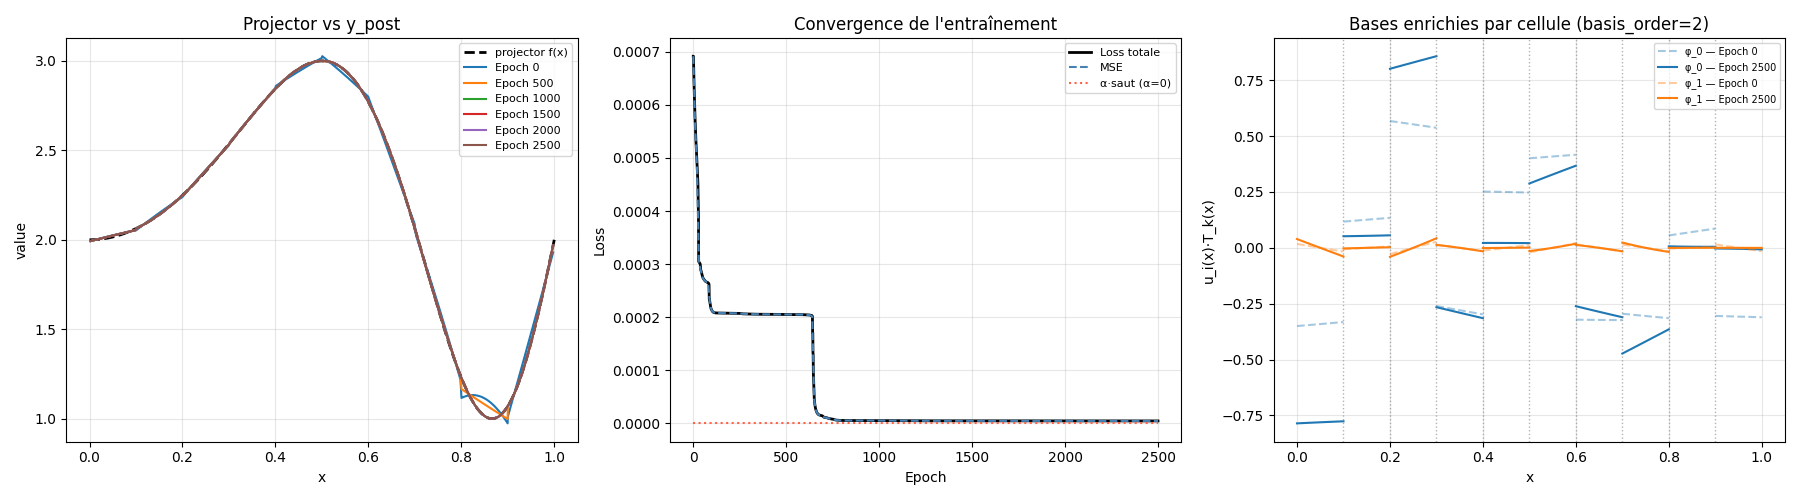
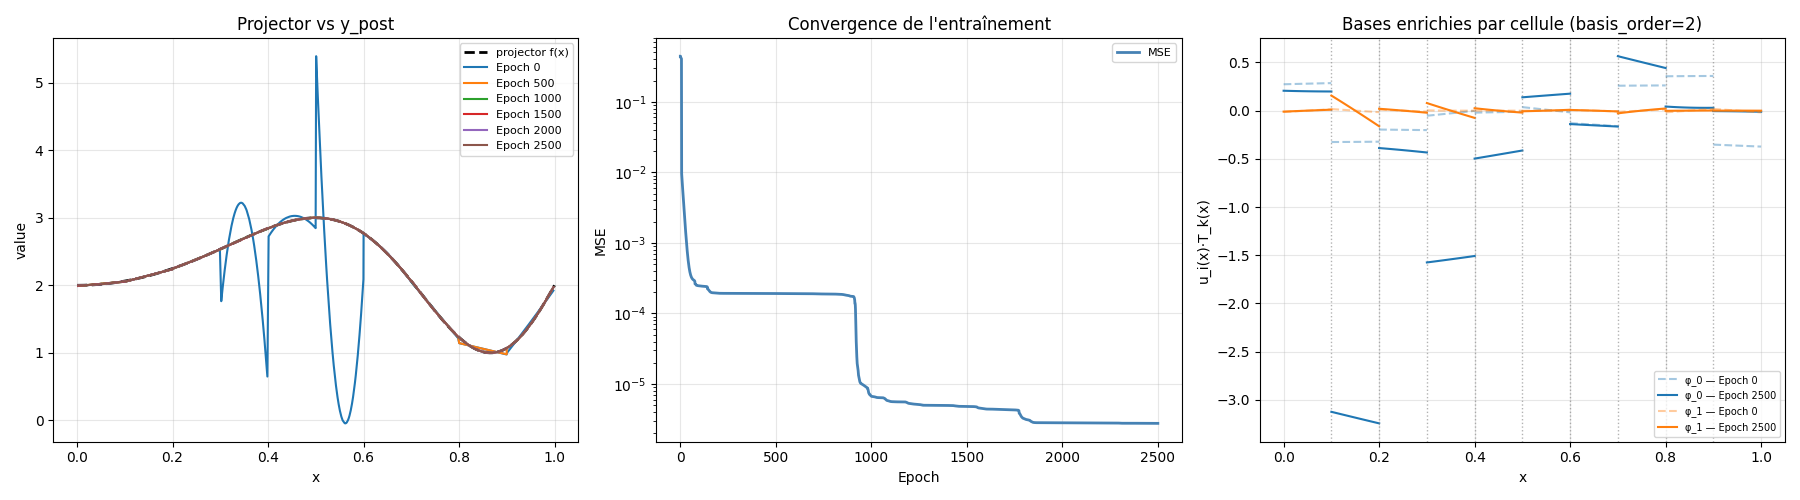
Màj examples variables

diff --git a/scimba_jax_DG/variables/todo_variables.md b/scimba_jax_DG/variables/todo_variables.md
@@ -20,8 +20,6 @@
 
 ## **Cas tests**
 
-- [ ] Tous ces résultats sont à mettre à jour. 
-
 - [x] **Cas test 1 (`variable.py`) :** 
 
     - *Tester :* la classe `Variables` sans post-processing (PP None) avec une base analytique (Taylor).
@@ -162,11 +160,11 @@
         |---------|--------|-------------|---------|-------------|---------|--------|-------------|-------------|
         | 5 | 20 | 2 | 1 | $\sin(2\pi(x^2+1)) + 2$ | / | $\varphi_{k,i}^{\theta,P}$/$\varphi_{k,i}^{\theta,C}$ | / | [(voir)](images/compare_patchwise_cellwise.png) |
 
+    - [x] Relancer tous les tests (+ passer les losses en ylog).
+    
     - [ ] Vérifier quelle signature est la meilleur pour le `_call__` de `Cellwise` :
         ```[python]
         def __call__(self, cell_module, i: int, inputs: jnp.ndarray) -> jnp.ndarray:
         def __call__(self, i: int, inputs: jnp.ndarray) -> jnp.ndarray:
 
         ```
-
-    - [ ] Relancer tous les tests (+ passer les losses en ylog).
